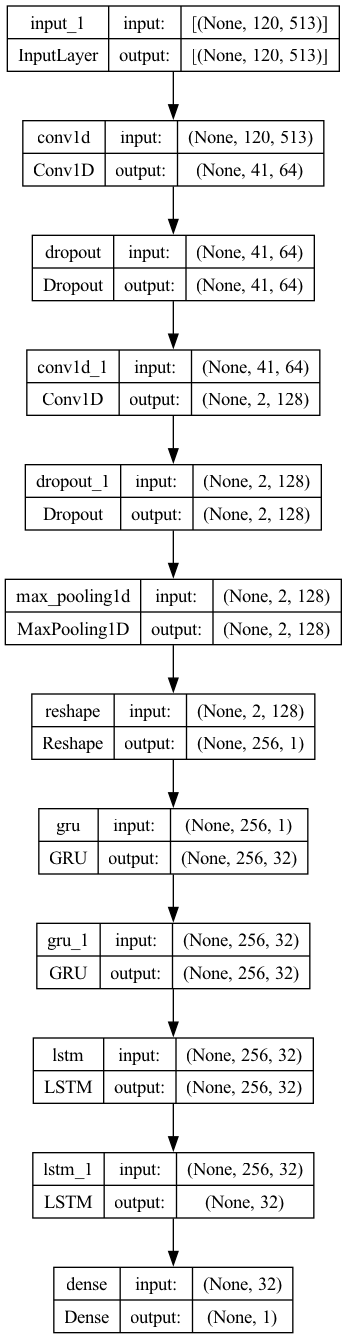
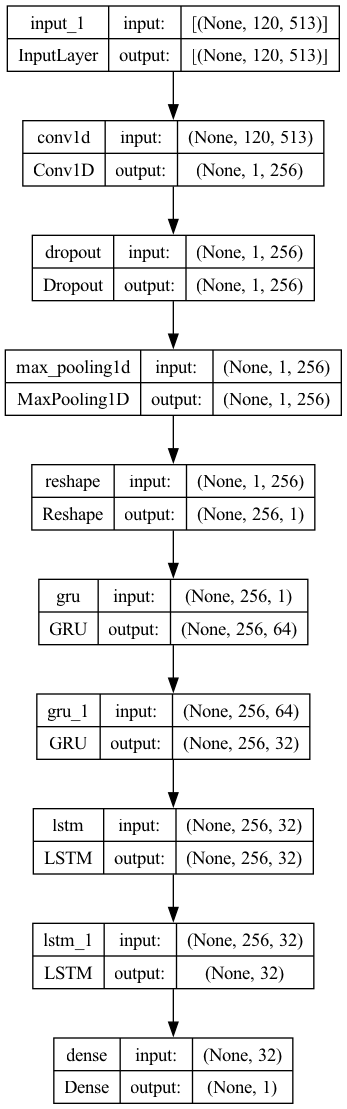
modify model_tester

Changed region(s): [[0.0, 0.0, 1.0, 1.0], [0.9798, 0.3066, 1.0, 0.3679]]

diff --git a/1d_model.py b/1d_model.py
@@ -12,6 +12,7 @@ import my_config
 from my_config import LOGMEL_SHAPE_WINDOW, EPOCHS
 from utils import utils
 from data_loader import DataLoader
+from model_tester import ModelTester
 from attention_layer import Attention, squeeze_excite_block
 
 
@@ -24,29 +25,29 @@ data_loader = DataLoader(my_config.TRAIN_H5, my_config.DEV_H5, my_config.TEST_H5
 audio_input = Input(shape=LOGMEL_SHAPE_WINDOW)
 
 # Conv2D Layer
-conv1 = Conv1D(filters=64, kernel_size=80, strides=1, padding='valid')(audio_input)
+conv1 = Conv1D(filters=256, kernel_size=120, strides=1, padding='valid')(audio_input)
 # conv1 = squeeze_excite_block(conv1)
 # conv1 = Activation('relu')(conv1)
 
 conv1 = Dropout(0.5)(conv1)
 
-conv2 = Conv1D(filters=128, kernel_size=40, strides=1, padding='valid')(conv1)
+# conv2 = Conv1D(filters=128, kernel_size=40, strides=1, padding='valid')(conv1)
 # conv2 = squeeze_excite_block(conv2)
 # # conv2 = Activation('relu')(conv2)
 
-conv2 = Dropout(0.5)(conv2)
+# conv2 = Dropout(0.5)(conv2)
 
 # MaxPooling2D Layer
-max_pool1 = MaxPooling1D(pool_size=1, strides=1, padding='valid')(conv2)
+max_pool1 = MaxPooling1D(pool_size=1, strides=1, padding='valid')(conv1)
 
 reshape = layers.Reshape((-1, 1))(max_pool1)
 
 # Add the GRU layer
-gru = Attention(return_sequences=True)(layers.GRU(32, return_sequences=True)(reshape))
-gru2 = Attention(return_sequences=True)(layers.GRU(32, return_sequences=True)(gru))
-gru3 = Attention(return_sequences=True)(layers.LSTM(32, return_sequences=True)(gru2))
+gru = layers.GRU(64, return_sequences=True)(reshape)
+gru2 = layers.GRU(32, return_sequences=True)(gru)
+gru3 = layers.LSTM(32, return_sequences=True)(gru2)
 # gru4 = layers.LSTM(128, return_sequences=True)(gru3)
-gru5 = Attention(return_sequences=False)(layers.LSTM(32, return_sequences=True)(gru3))
+gru5 = layers.LSTM(32, return_sequences=False)(gru3)
 
 
 output = Dense(1, activation='sigmoid', kernel_regularizer=regularizers.l2(0.03))(gru5)
@@ -109,3 +110,11 @@ def plot_history(hstory):
 
 
 plot_history(history)
+
+
+######################################################################################################################
+
+
+data_loader = DataLoader(my_config.TRAIN_H5, my_config.DEV_H5, my_config.TEST_H5)
+tester = ModelTester('./model/1d_model.keras', data_loader)
+tester.test()

diff --git a/model_tester.py b/model_tester.py
@@ -1,0 +1,41 @@
+import keras
+import numpy as np
+from matplotlib import pyplot as plt
+import seaborn as sns
+from sklearn.metrics import confusion_matrix, classification_report
+
+import my_config
+from data_loader import DataLoader
+
+
+class ModelTester:
+    def __init__(self, model_path, loader):
+        self.model = keras.models.load_model(model_path)
+        self.data_loader = loader
+
+    def test(self):
+        predictions = self.model.predict(self.data_loader.test_generator)
+        predicted_classes = np.argmax(predictions, axis=1)
+
+        test_labels = []
+        for _, labels in self.data_loader.test_generator:
+            test_labels.extend(labels)
+
+        assert len(test_labels) == len(predicted_classes), "Mismatch in number of true and predicted labels."
+
+        cm = confusion_matrix(test_labels, predicted_classes)
+        plt.figure(figsize=(10, 7))
+        sns.heatmap(cm, annot=True, fmt="d", cmap="Blues",
+                    xticklabels=['Non-depressed', 'Depressed'],
+                    yticklabels=['Non-depressed', 'Depressed'])
+        plt.ylabel('Actual')
+        plt.xlabel('Predicted')
+        plt.title('Confusion Matrix')
+        plt.show()
+
+        print(classification_report(test_labels, predicted_classes, target_names=['Non-depressed', 'Depressed']))
+
+
+data_loader = DataLoader(my_config.TRAIN_H5, my_config.DEV_H5, my_config.TEST_H5)
+tester = ModelTester('./model/1d_model.keras', data_loader)
+tester.test()
